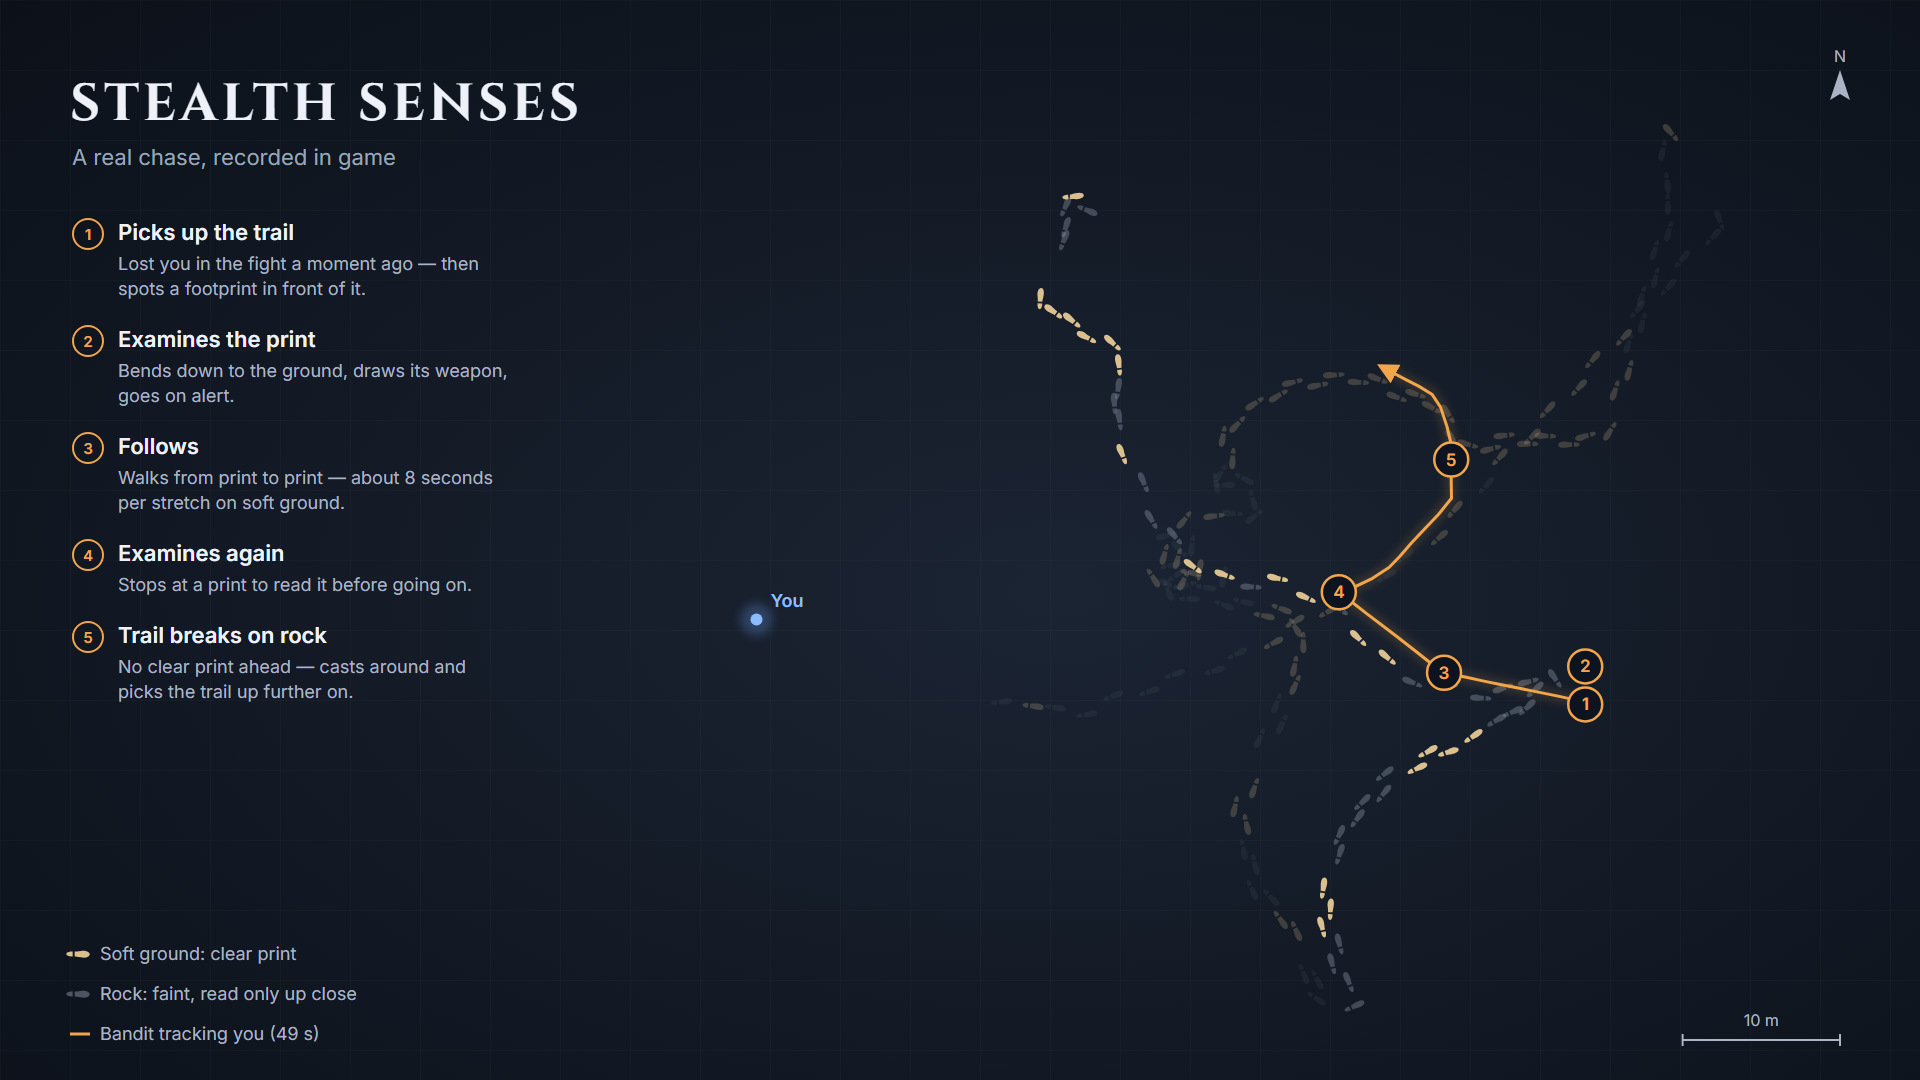
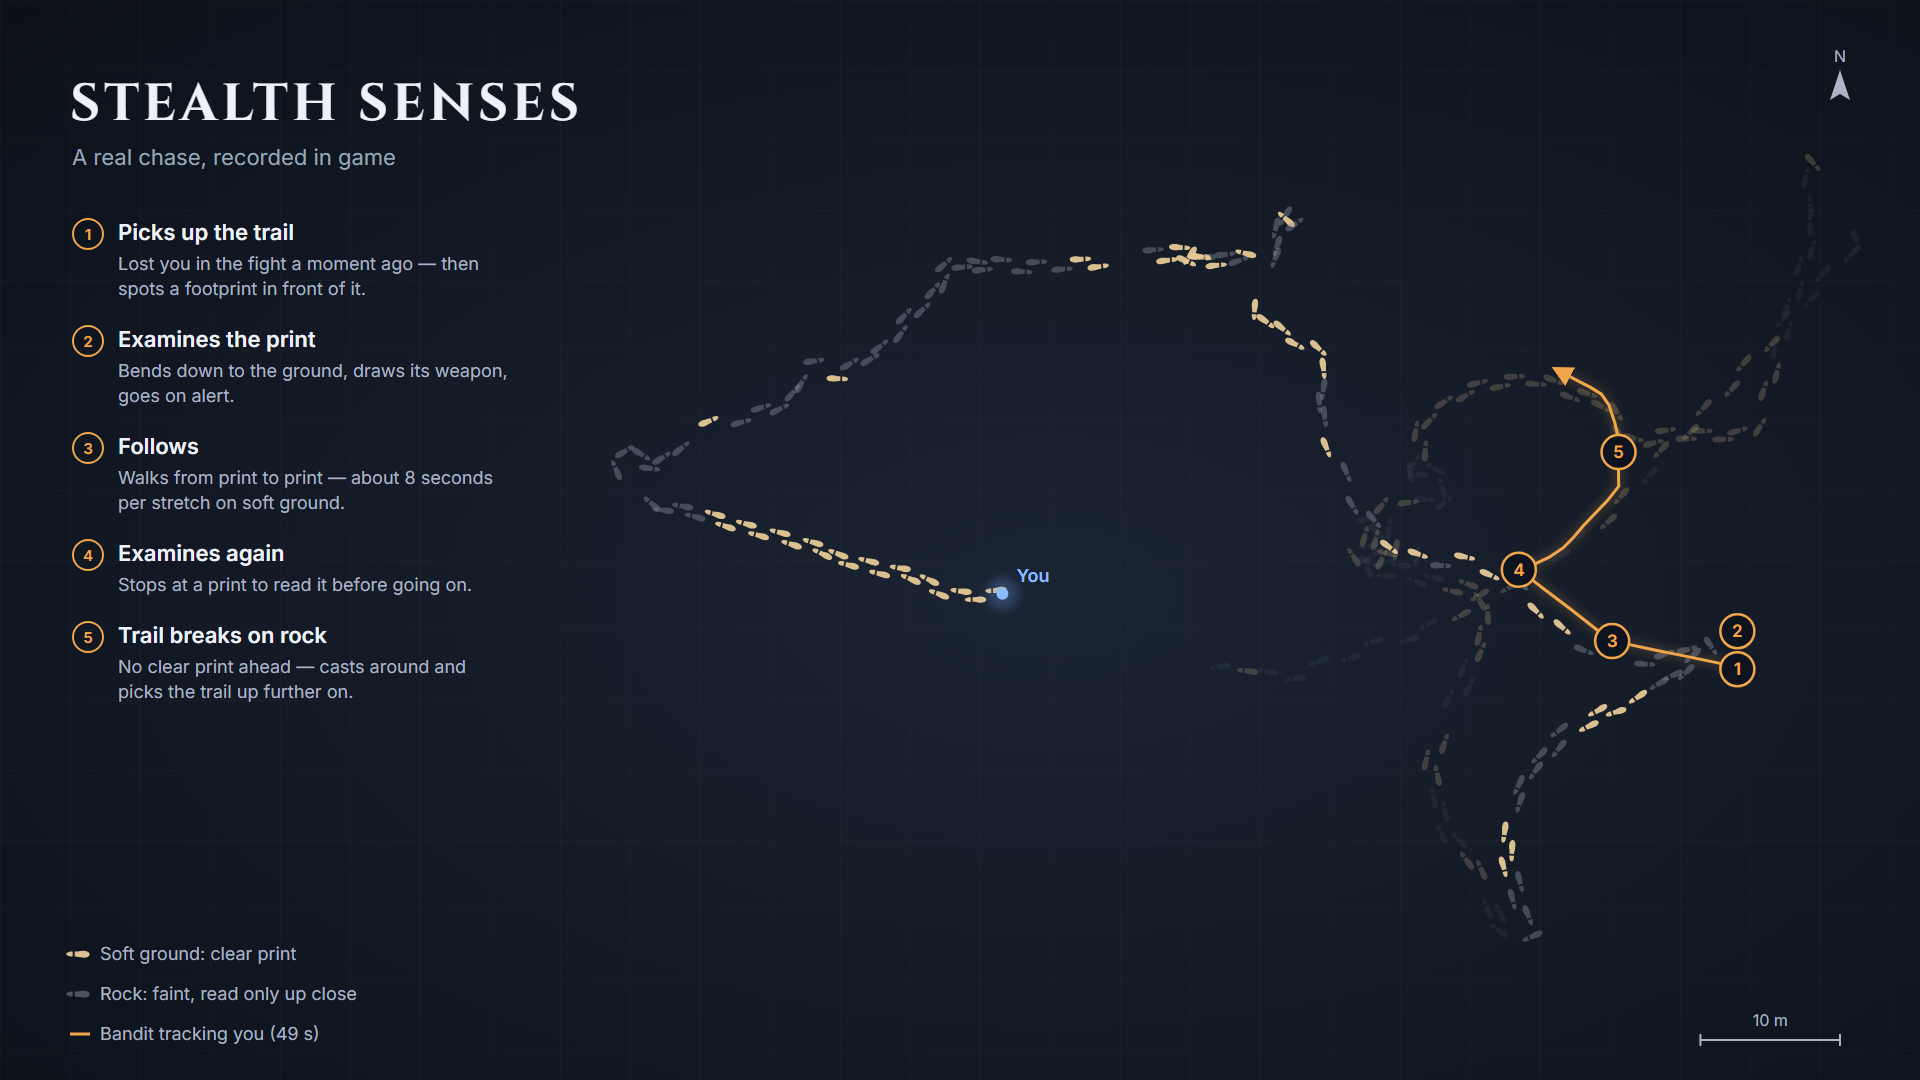
Chase map: show the player's own trail during the chase
The 'You' marker stood alone because only footprints near the bandit's
route were drawn; the player had walked ~50 m away meanwhile.

diff --git a/tools/art/chase-map.template.html b/tools/art/chase-map.template.html
@@ -40,12 +40,14 @@ const track = DATA.bandit.filter(b => b.mode);
 const tStart = track[0].t, tEnd = track[track.length - 1].t;
 // Frame: the tracker's route plus the footprints around it
 const near = (f) => track.some(b => Math.hypot(b.x - f.x, b.y - f.y) < 1600);
-const fps = DATA.footprints.filter(near).sort((a, b) => a.seq - b.seq);
+// Footprints near the tracker's route, plus every print the player left during the chase
+// (the player kept moving away while the bandit read the older trail)
+const fps = DATA.footprints.filter(f => near(f) || (f.t >= tStart - 10 && f.t <= tEnd)).sort((a, b) => a.seq - b.seq);
 const meEnd = DATA.player.reduce((best, p) => Math.abs(p.t - tEnd) < Math.abs(best.t - tEnd) ? p : best, DATA.player[0]);
 const pts = [...track, ...fps, meEnd];
 const minX = Math.min(...pts.map(p => p.x)), maxX = Math.max(...pts.map(p => p.x));
 const minY = Math.min(...pts.map(p => p.y)), maxY = Math.max(...pts.map(p => p.y));
-const box = { x: 640, y: 130, w: 1200, h: 880 };
+const box = { x: 620, y: 120, w: 1240, h: 860 };
 const scale = Math.min(box.w / (maxX - minX), box.h / (maxY - minY));
 const offX = box.x + (box.w - (maxX - minX) * scale) / 2, offY = box.y + (box.h - (maxY - minY) * scale) / 2;
 const P = (p) => [offX + (p.x - minX) * scale, offY + (maxY - p.y) * scale];   // north up
@@ -63,7 +65,7 @@ fps.forEach((f, i) => {
   const soft = SOFT.has(f.mat), unknown = f.mat === '00000000';
   const color = soft ? '#e6c995' : unknown ? '#b9c3d3' : '#8a93a3';
   const seqs = track.map(b => b.seq).filter(Boolean); const lo = Math.min(...seqs) - 25, hi = Math.max(...seqs) + 120;
-  const mine = f.seq >= lo && f.seq <= hi;
+  const mine = (f.seq >= lo && f.seq <= hi) || (f.t >= tStart - 10 && f.t <= tEnd);
   const op = (soft ? 0.95 : unknown ? 0.6 : 0.4) * (mine ? 1 : 0.22);
   const g = el('g', { transform: `translate(${(x + nx / nl * 4 * side).toFixed(1)} ${(y + ny / nl * 4 * side).toFixed(1)}) rotate(${ang.toFixed(1)}) scale(${side < 0 ? -1 : 1} 1)` }, footG);
   el('use', { href: '#boot', x: -4.5, y: -11, width: 9, height: 22, fill: color, 'fill-opacity': op }, g);
@@ -138,5 +140,6 @@ el('path', { d: 'M 1840 70 L 1830 100 L 1840 94 L 1850 100 Z', fill: '#aab4c4' }
 el('text', { x: 1840, y: 62, 'text-anchor': 'middle', class: 'ui', 'font-size': 16, fill: '#aab4c4' }, ui, 'N');
 </script>
 </body></html>
+
 
 
